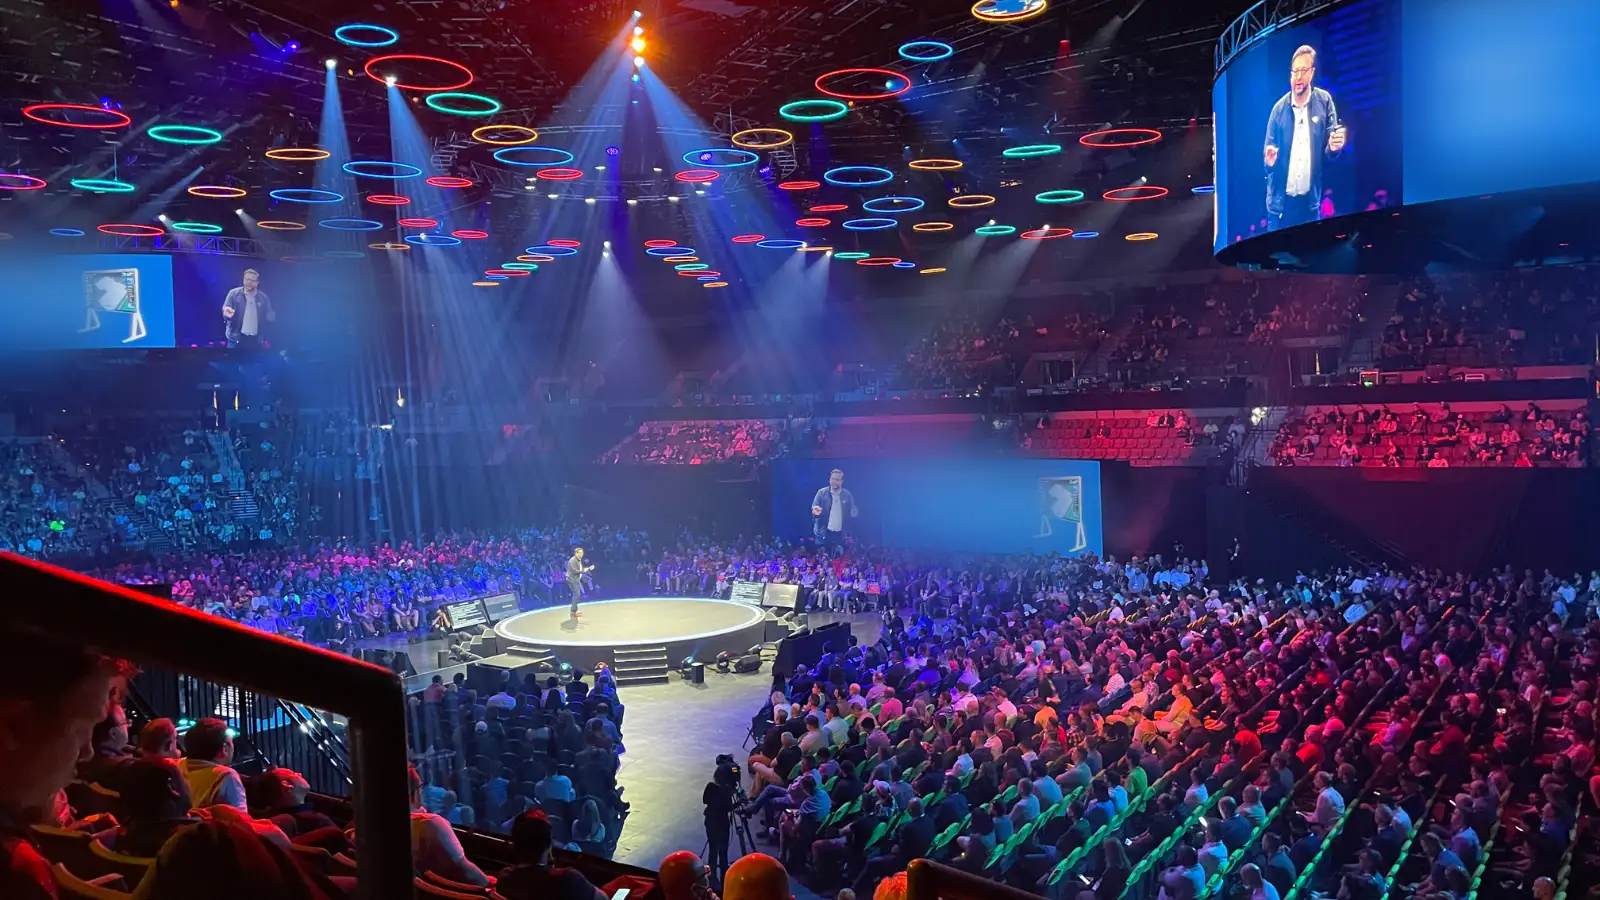
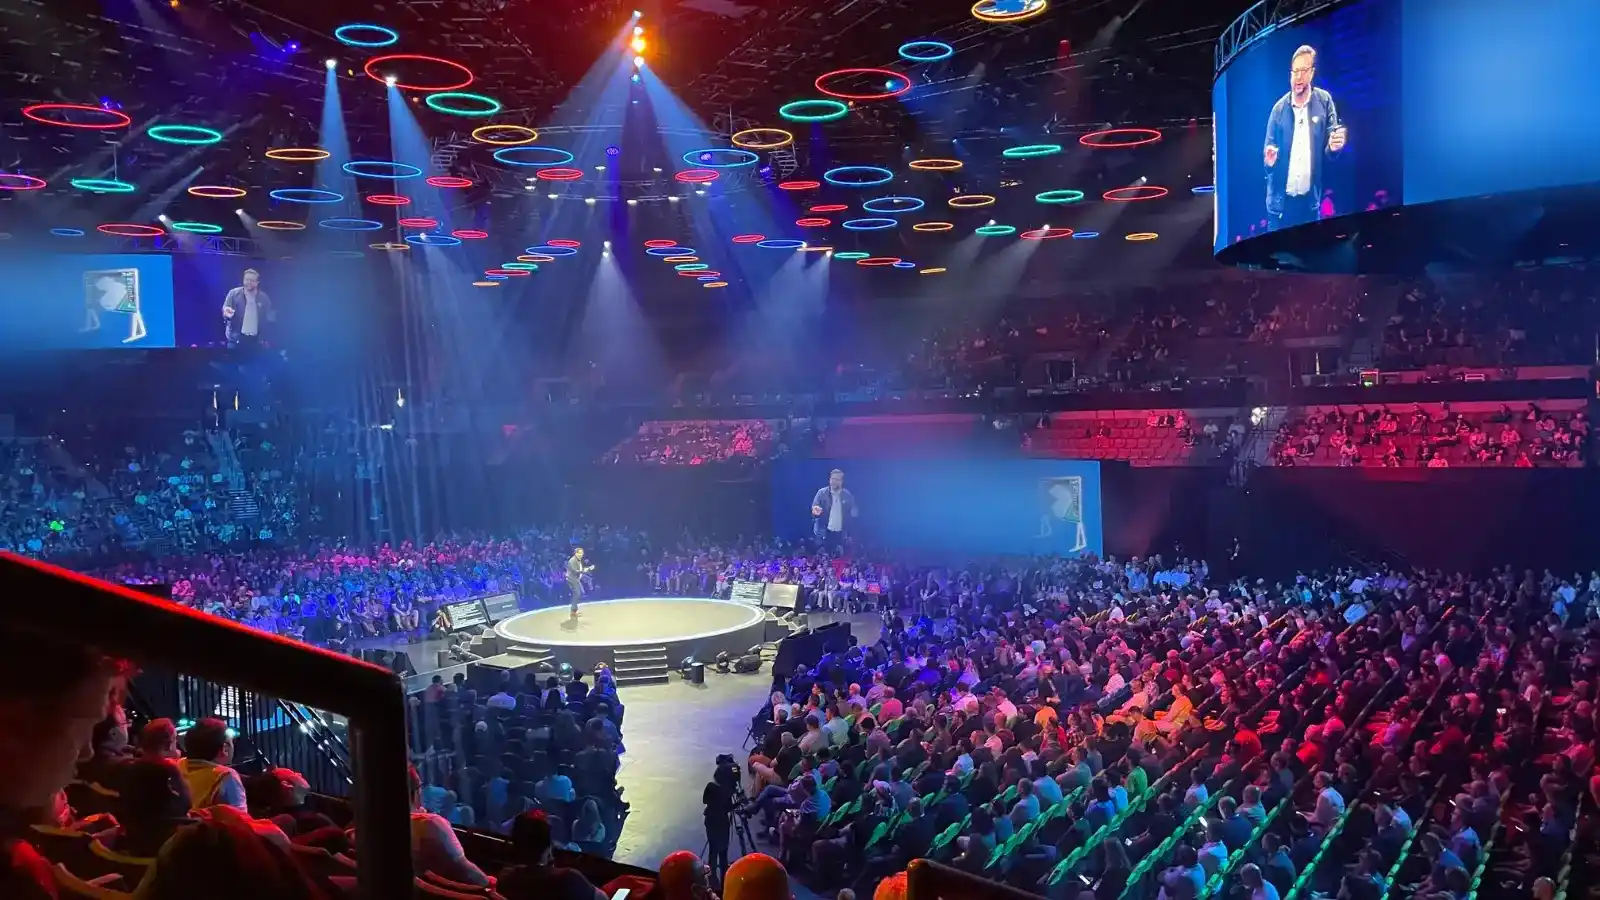
improved loading time by reducing images size

diff --git a/index.html b/index.html
@@ -5,10 +5,7 @@
     <meta name="viewport" content="width=device-width, initial-scale=1.0" />
     <script src="https://cdn.tailwindcss.com?plugins=forms,typography,aspect-ratio,line-clamp,container-queries"></script>
     <link rel="stylesheet" href="css/style.css" />
-    <link
-      href="https://cdn.jsdelivr.net/npm/flowbite@2.5.2/dist/flowbite.min.css"
-      rel="stylesheet"
-    />
+
     <link rel="preconnect" href="https://fonts.googleapis.com" />
     <link rel="preconnect" href="https://fonts.gstatic.com" crossorigin />
     <link
@@ -68,7 +65,7 @@
         <!-- Logo light headphone -->
         <div class="logo-light hidden" data-aos="zoom-out" data-aos-delay="700">
           <a href="#hero"
-            ><img class="h-9 sm:h-10" src="./images/logo-bg-dark.png" alt=""
+            ><img class="h-9 sm:h-10" src="./images/logo-bg-dark.webp" alt=""
           /></a>
         </div>
 
@@ -565,50 +562,32 @@
       </div>
       <div class="speaker-box">
         <div data-aos="flip-left">
-          <img
-            class="circle"
-            src="https://mutationmedia.net/FOXECONF/assets/img/p1.jpg"
-          />
+          <img class="circle" src="./images/p1.webp" />
           <h1 class="speakers-name dark:text-white">Jeremy Spivak</h1>
           <h1 class="speakers-para dark:text-gray-300">CEO, Founder</h1>
         </div>
         <div data-aos="flip-left">
-          <img
-            class="circle"
-            src="https://mutationmedia.net/FOXECONF/assets/img/p2.jpg"
-          />
+          <img class="circle" src="./images/p2.webp" />
           <h1 class="speakers-name dark:text-white">David Taylor</h1>
           <h1 class="speakers-para dark:text-gray-300">User Research</h1>
         </div>
         <div data-aos="flip-left">
-          <img
-            class="circle"
-            src="https://mutationmedia.net/FOXECONF/assets/img/p3.jpg"
-          />
+          <img class="circle" src="./images/p3.webp" />
           <h1 class="speakers-name dark:text-white">Renee Mu</h1>
           <h1 class="speakers-para dark:text-gray-300">Content Strategy</h1>
         </div>
         <div data-aos="flip-left">
-          <img
-            class="circle"
-            src="https://mutationmedia.net/FOXECONF/assets/img/p4.jpg"
-          />
+          <img class="circle" src="./images/p4.webp" />
           <h1 class="speakers-name dark:text-white">Melissa Wagner</h1>
           <h1 class="speakers-para dark:text-gray-300">UX Metrics</h1>
         </div>
         <div data-aos="flip-left">
-          <img
-            class="circle"
-            src="https://mutationmedia.net/FOXECONF/assets/img/p3.jpg"
-          />
+          <img class="circle" src="./images/p3.webp" />
           <h1 class="speakers-name dark:text-white">Renee Mu</h1>
           <h1 class="speakers-para dark:text-gray-300">Visual Design</h1>
         </div>
         <div data-aos="flip-left">
-          <img
-            class="circle"
-            src="https://mutationmedia.net/FOXECONF/assets/img/p1.jpg"
-          />
+          <img class="circle" src="./images/p1.webp" />
           <h1 class="speakers-name dark:text-white">Jeremy Spivak</h1>
           <h1 class="speakers-para dark:text-gray-300">User Research</h1>
         </div>
@@ -616,7 +595,7 @@
       <div class="interested">
         <h1 class="interested-para dark:text-gray-300 mt-3">
           Interested in attending TechConf
-          <a class="ticket" href="#">Get a Ticket →</a>
+          <a class="ticket" href="#registration">Get a Ticket →</a>
         </h1>
       </div>
     </section>
@@ -1217,7 +1196,7 @@
             data-aos-duration="700"
           >
             <img
-              src="./images/carousal-1.jpg"
+              src="./images/carousal-1.webp"
               alt="Nature"
               class="object-cover h-full w-full"
             />
@@ -1238,7 +1217,7 @@
             data-aos-duration="700"
           >
             <img
-              src="./images/carousal-2.jpg"
+              src="./images/carousal-2.webp"
               alt="City"
               class="object-cover h-full w-full"
             />
@@ -1255,7 +1234,7 @@
             data-aos-duration="700"
           >
             <img
-              src="./images/carousal-3.jpg"
+              src="./images/carousal-3.webp"
               alt="Mountains"
               class="object-cover h-full w-full"
             />
@@ -1274,7 +1253,7 @@
             data-aos-duration="700"
           >
             <img
-              src="./images/carousal-4.jpg"
+              src="./images/carousal-4.webp"
               alt="Mountains"
               class="object-cover h-full w-full"
             />
@@ -1310,7 +1289,7 @@
             data-aos-duration="700"
           >
             <img
-              src="./images/carousal-6.jpg"
+              src="./images/carousal-6.webp"
               alt="Mountains"
               class="object-cover h-full w-full"
             />

diff --git a/css/style.css b/css/style.css
@@ -18,7 +18,7 @@ section {
 }
 
 .registration-container {
-  background-image: url("../images/conference-background.jpg"); /* Background image goes here */
+  background-image: url("../images/conference-background.webp"); /* Background image goes here */
 }
 
 a {
@@ -98,7 +98,7 @@ input:checked + .slider:before {
 
 /* Hero Section */
 #hero {
-  background-image: url("../images/conference-background.jpg");
+  background-image: url("../images/conference-background.webp");
   background-position: center;
   background-repeat: no-repeat;
   background-size: cover;
